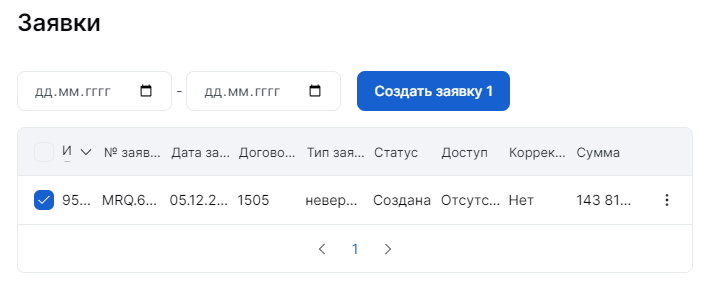
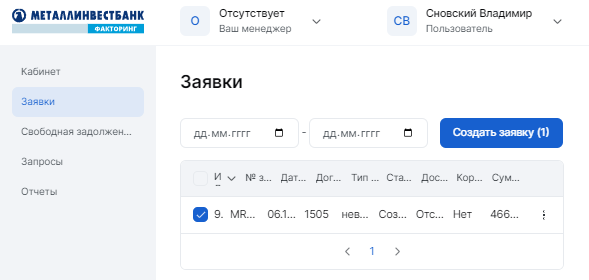
feat: add brackets, broke drawer comp

diff --git a/src/app/client/modules/requests/modules/request-drawer/request-drawer.component.html b/src/app/client/modules/requests/modules/request-drawer/request-drawer.component.html
@@ -1,59 +1,85 @@
+<p>request-drawer works!</p>
 <mib-drawer>
-	<!-- <mib-drawer-header (onClose)="dialogRef.close()" drawer-header></mib-drawer-header>
-  <div class="flex flex_column gap-4">
-    <h4>Создание заявки</h4>
-    <p class="text text_m c-bti-secondary">По выбранным заявкам Вы сможете составить заявку на факторинг</p>
-  </div>
-  <mib-spacing type="s"></mib-spacing>
-  <p class="headline">Договора поставки</p>
-  <mib-spacing type="xs"></mib-spacing>
-  <mib-table>
-    <mib-table-head>
-      <mib-table-head-cell>ИД</mib-table-head-cell>
-      <mib-table-head-cell>Контракт</mib-table-head-cell>
-      <mib-table-head-cell>№ поставки</mib-table-head-cell>
-      <mib-table-head-cell>С/ф №</mib-table-head-cell>
-      <mib-table-head-cell>Остаток задолженности</mib-table-head-cell>
-    </mib-table-head>
-    <mib-table-row *ngFor="let duty of dutiesVisible; trackBy: trackByFunction" [underlined]="true">
-      <mib-table-cell>
-        <ng-container table-cell-title>{{duty.ID}}</ng-container>
-      </mib-table-cell>
-      <mib-table-cell>
-        <ng-container table-cell-title>{{duty.Contract.ID}}</ng-container>
-      </mib-table-cell>
-      <mib-table-cell>
-        <ng-container table-cell-title>{{duty.Number}}</ng-container>
-      </mib-table-cell>
-      <mib-table-cell>
-        <ng-container table-cell-title>{{duty.NumberInvoice}}</ng-container>
-      </mib-table-cell>
-      <mib-table-cell>
-        <ng-container table-cell-title>{{duty.Rest | number}}</ng-container>
-      </mib-table-cell>
-      <mib-button table-row-button size="s" type="ghost-secondary">
-        <mib-ref-icon class="stroke" btn-icon name="fi_more-vertical"></mib-ref-icon>
-      </mib-button>
-    </mib-table-row>
-    <mib-table-row>
-      <mib-table-cell type="blank">
-        <div class="flex flex_column gap-4">
-          <p class="text text_xs c-bti-tertiary">Кол-во поставок</p>
-          <p class="text text_s text_medium c-bti-primary">{{data.data.length}} {{toolsService.declineWord(data.data.length, ['позиция', 'позиции', 'позиций'])}}</p>
-        </div>
-      </mib-table-cell>
-      <mib-table-cell type="blank" class="flex_justify-end">
-        <div class="flex flex_column gap-4 flex_align-end">
-          <p class="text text_xs c-bti-tertiary">Сумма задолженности</p>
-          <p class="text text_s text_medium c-bti-primary">{{fullRest | number}}</p>
-        </div>
-      </mib-table-cell>
-    </mib-table-row>
-    <mib-table-footer>
-      <mib-paginator (pageChange)="onPageChange($event)" [totalCount]="data.data.length" [pagesToShow]="PAGINATOR_PAGE_TO_SHOW" [itemsPerPage]="PAGINATOR_ITEMS_PER_PAGE"></mib-paginator>
-    </mib-table-footer>
-  </mib-table>
-  <mib-drawer-footer drawer-footer>
-    <mib-button [loading]="!!(sending$ | async)" (press)="submit()" type="filled-primary">Создать заявку</mib-button>
-  </mib-drawer-footer> -->
+	<mib-drawer-header drawer-header></mib-drawer-header>
+	<!-- <mib-drawer-header (onClose)="dialogRef.close()" drawer-header></mib-drawer-header> -->
+	<div class="flex flex_column gap-4">
+		<h4>Создание заявки</h4>
+		<p class="text text_m c-bti-secondary">
+			По выбранным заявкам Вы сможете составить заявку на факторинг
+		</p>
+	</div>
+	<mib-spacing type="s"></mib-spacing>
+	<p class="headline">Договора поставки</p>
+	<mib-spacing type="xs"></mib-spacing>
+	<mib-table>
+		<mib-table-head>
+			<mib-table-head-cell>ИД</mib-table-head-cell>
+			<mib-table-head-cell>Контракт</mib-table-head-cell>
+			<mib-table-head-cell>№ поставки</mib-table-head-cell>
+			<mib-table-head-cell>С/ф №</mib-table-head-cell>
+			<mib-table-head-cell>Остаток задолженности</mib-table-head-cell>
+		</mib-table-head>
+		<mib-table-row [underlined]="true">
+			<!-- <mib-table-row *ngFor="let duty of dutiesVisible; trackBy: trackByFunction" [underlined]="true"> -->
+			<mib-table-cell>
+				<ng-container table-cell-title>halo</ng-container>
+			</mib-table-cell>
+			<mib-table-cell>
+				<ng-container table-cell-title>halo2</ng-container>
+			</mib-table-cell>
+			<mib-table-cell>
+				<ng-container table-cell-title>halo3</ng-container>
+			</mib-table-cell>
+			<mib-table-cell>
+				<ng-container table-cell-title>halo4</ng-container>
+			</mib-table-cell>
+			<mib-table-cell>
+				<ng-container table-cell-title>halo5</ng-container>
+			</mib-table-cell>
+			<!-- <mib-table-cell>
+          <ng-container table-cell-title>{{duty.ID}}</ng-container>
+        </mib-table-cell> -->
+			<!-- <mib-table-cell>
+          <ng-container table-cell-title>{{duty.Contract.ID}}</ng-container>
+        </mib-table-cell> -->
+			<!-- <mib-table-cell>
+          <ng-container table-cell-title>{{duty.Number}}</ng-container>
+        </mib-table-cell> -->
+			<!-- <mib-table-cell>
+          <ng-container table-cell-title>{{duty.NumberInvoice}}</ng-container>
+        </mib-table-cell> -->
+			<!-- <mib-table-cell>
+          <ng-container table-cell-title>{{duty.Rest | number}}</ng-container>
+        </mib-table-cell> -->
+			<mib-button table-row-button size="s" type="ghost-secondary">
+				<mib-ref-icon
+					class="stroke"
+					btn-icon
+					name="fi_more-vertical"
+				></mib-ref-icon>
+			</mib-button>
+		</mib-table-row>
+		<mib-table-row>
+			<mib-table-cell type="blank">
+				<div class="flex flex_column gap-4">
+					<p class="text text_xs c-bti-tertiary">Кол-во поставок</p>
+					<p class="text text_s text_medium c-bti-primary">100500</p>
+					<!-- <p class="text text_s text_medium c-bti-primary">{{data.data.length}} {{toolsService.declineWord(data.data.length, ['позиция', 'позиции', 'позиций'])}}</p> -->
+				</div>
+			</mib-table-cell>
+			<mib-table-cell type="blank" class="flex_justify-end">
+				<div class="flex flex_column gap-4 flex_align-end">
+					<p class="text text_xs c-bti-tertiary">Сумма задолженности</p>
+					<p class="text text_s text_medium c-bti-primary">123</p>
+					<!-- <p class="text text_s text_medium c-bti-primary">{{fullRest | number}}</p> -->
+				</div>
+			</mib-table-cell>
+		</mib-table-row>
+		<!-- <mib-table-footer>
+        <mib-paginator (pageChange)="onPageChange($event)" [totalCount]="data.data.length" [pagesToShow]="PAGINATOR_PAGE_TO_SHOW" [itemsPerPage]="PAGINATOR_ITEMS_PER_PAGE"></mib-paginator>
+      </mib-table-footer> -->
+	</mib-table>
+	<!-- <mib-drawer-footer drawer-footer>
+      <mib-button [loading]="!!(sending$ | async)" (press)="submit()" type="filled-primary">Создать заявку</mib-button>
+    </mib-drawer-footer> -->
 </mib-drawer>

diff --git a/src/app/client/modules/requests/modules/request-drawer/request-drawer.component.ts b/src/app/client/modules/requests/modules/request-drawer/request-drawer.component.ts
@@ -1,44 +1,53 @@
-import { Component, Inject, OnInit } from '@angular/core'
-import { MAT_DIALOG_DATA, MatDialogRef } from '@angular/material/dialog'
-import { DrawerData } from '../../../../../shared/ui-kit/drawer/interfaces/drawer.interface'
-import { AdvancedRequests } from '../../components/requests-page/interfaces/requests-page.interface'
-import { ToolsService } from '../../../../../shared/services/tools.service'
-import { RequestDrawerService } from './request-drawer.service'
-import { BehaviorSubject, finalize, tap } from 'rxjs'
-import { RequestsResponse } from '../../../requests/types/requestResponse.interface'
+// import { Component, Inject, OnInit } from '@angular/core'
+// import { MAT_DIALOG_DATA, MatDialogRef } from '@angular/material/dialog'
+// import { DrawerData } from '../../../../../shared/ui-kit/drawer/interfaces/drawer.interface'
+// import { AdvancedRequests } from '../../components/requests-page/interfaces/requests-page.interface'
+// import { ToolsService } from '../../../../../shared/services/tools.service'
+// import { RequestDrawerService } from './request-drawer.service'
+// import { BehaviorSubject, finalize, tap } from 'rxjs'
+// import { RequestsResponse } from '../../../requests/types/requestResponse.interface'
+
+// @Component({
+// 	selector: 'mib-request-drawer',
+// 	templateUrl: './request-drawer.component.html',
+// 	styleUrls: ['./request-drawer.component.scss']
+// })
+// export class RequestDrawerComponent implements OnInit {
+// 	public sending$ = new BehaviorSubject<boolean>(false)
+
+// 	public PAGINATOR_ITEMS_PER_PAGE = 6
+// 	public PAGINATOR_PAGE_TO_SHOW = 5
+
+// 	public dutiesVisible: AdvancedRequests[] = []
+
+// 	constructor(
+// 		public dialogRef: MatDialogRef<RequestDrawerComponent>,
+// 		public toolsService: ToolsService,
+// 		private requestsService: RequestDrawerService,
+// 		@Inject(MAT_DIALOG_DATA) public data: DrawerData<AdvancedRequests[]>
+// 	) {}
+
+// 	trackByFunction(index, data: RequestsResponse) {
+// 		return data.ID
+// 	}
+
+// 	ngOnInit() {
+// 		this.onPageChange(1)
+// 	}
+
+// 	onPageChange(page: number) {
+// 		const startIndex = (page - 1) * this.PAGINATOR_ITEMS_PER_PAGE
+// 		const endIndex = startIndex + this.PAGINATOR_ITEMS_PER_PAGE
+
+// 		this.dutiesVisible = this.data.data.slice(startIndex, endIndex)
+// 	}
+// }
+
+import { Component } from '@angular/core'
 
 @Component({
 	selector: 'mib-request-drawer',
 	templateUrl: './request-drawer.component.html',
 	styleUrls: ['./request-drawer.component.scss']
 })
-export class RequestDrawerComponent implements OnInit {
-	public sending$ = new BehaviorSubject<boolean>(false)
-
-	public PAGINATOR_ITEMS_PER_PAGE = 6
-	public PAGINATOR_PAGE_TO_SHOW = 5
-
-	public dutiesVisible: AdvancedRequests[] = []
-
-	constructor(
-		public dialogRef: MatDialogRef<RequestDrawerComponent>,
-		public toolsService: ToolsService,
-		private requestsService: RequestDrawerService,
-		@Inject(MAT_DIALOG_DATA) public data: DrawerData<AdvancedRequests[]>
-	) {}
-
-	trackByFunction(index, data: RequestsResponse) {
-		return data.ID
-	}
-
-	ngOnInit() {
-		this.onPageChange(1)
-	}
-
-	onPageChange(page: number) {
-		const startIndex = (page - 1) * this.PAGINATOR_ITEMS_PER_PAGE
-		const endIndex = startIndex + this.PAGINATOR_ITEMS_PER_PAGE
-
-		this.dutiesVisible = this.data.data.slice(startIndex, endIndex)
-	}
-}
+export class RequestDrawerComponent {}

diff --git a/src/app/client/modules/requests/components/requests-page/requests-page.component.ts b/src/app/client/modules/requests/components/requests-page/requests-page.component.ts
@@ -51,9 +51,9 @@ export class TableHighlightDirective {}
 })
 export class RequestsPageComponent implements OnInit, OnDestroy {
 	constructor(
-		private requestsService: RequestsService,
-		private requestDrawerService: RequestDrawerService
-	) {}
+		private requestsService: RequestsService
+	) // private requestDrawerService: RequestDrawerService
+	{}
 
 	public loading$ = new BehaviorSubject<boolean>(false)
 
@@ -102,24 +102,28 @@ export class RequestsPageComponent implements OnInit, OnDestroy {
 	}
 
 	openDrawer() {
-		this.requestDrawerService
-			.open<AdvancedRequests[]>({
-				state: DrawerStateEnum.CREATE,
-				data: this.selectedRequests
-			})
-			.afterClosed()
-			.pipe(
-				filter(Boolean),
-				tap(() => {
-					forkJoin(
-						this.selectedRequests.map(duty => this.removeDutyById(duty.ID))
-					).subscribe(() => {
-						this.onPageChange(this.currentPage)
-					})
-				})
-			)
-			.subscribe()
+		console.log('halo')
 	}
+
+	// openDrawer() {
+	// 	this.requestDrawerService
+	// 		.open<AdvancedRequests[]>({
+	// 			state: DrawerStateEnum.CREATE,
+	// 			data: this.selectedRequests
+	// 		})
+	// 		.afterClosed()
+	// 		.pipe(
+	// 			filter(Boolean),
+	// 			tap(() => {
+	// 				forkJoin(
+	// 					this.selectedRequests.map(duty => this.removeDutyById(duty.ID))
+	// 				).subscribe(() => {
+	// 					this.onPageChange(this.currentPage)
+	// 				})
+	// 			})
+	// 		)
+	// 		.subscribe()
+	// }
 
 	removeDutyById(id: number): Observable<void> {
 		return new Observable(observer => {

diff --git a/src/app/client/modules/requests/components/requests-page/requests-page.component.html b/src/app/client/modules/requests/components/requests-page/requests-page.component.html
@@ -16,8 +16,7 @@
 					[disabled]="!selectedRequestCount"
 					(press)="openDrawer()"
 					type="filled-primary"
-					>Создать заявку
-					{{ selectedRequestCount }}
+					>Создать заявку ({{ selectedRequestCount }})
 				</mib-button>
 			</div>
 		</div>
